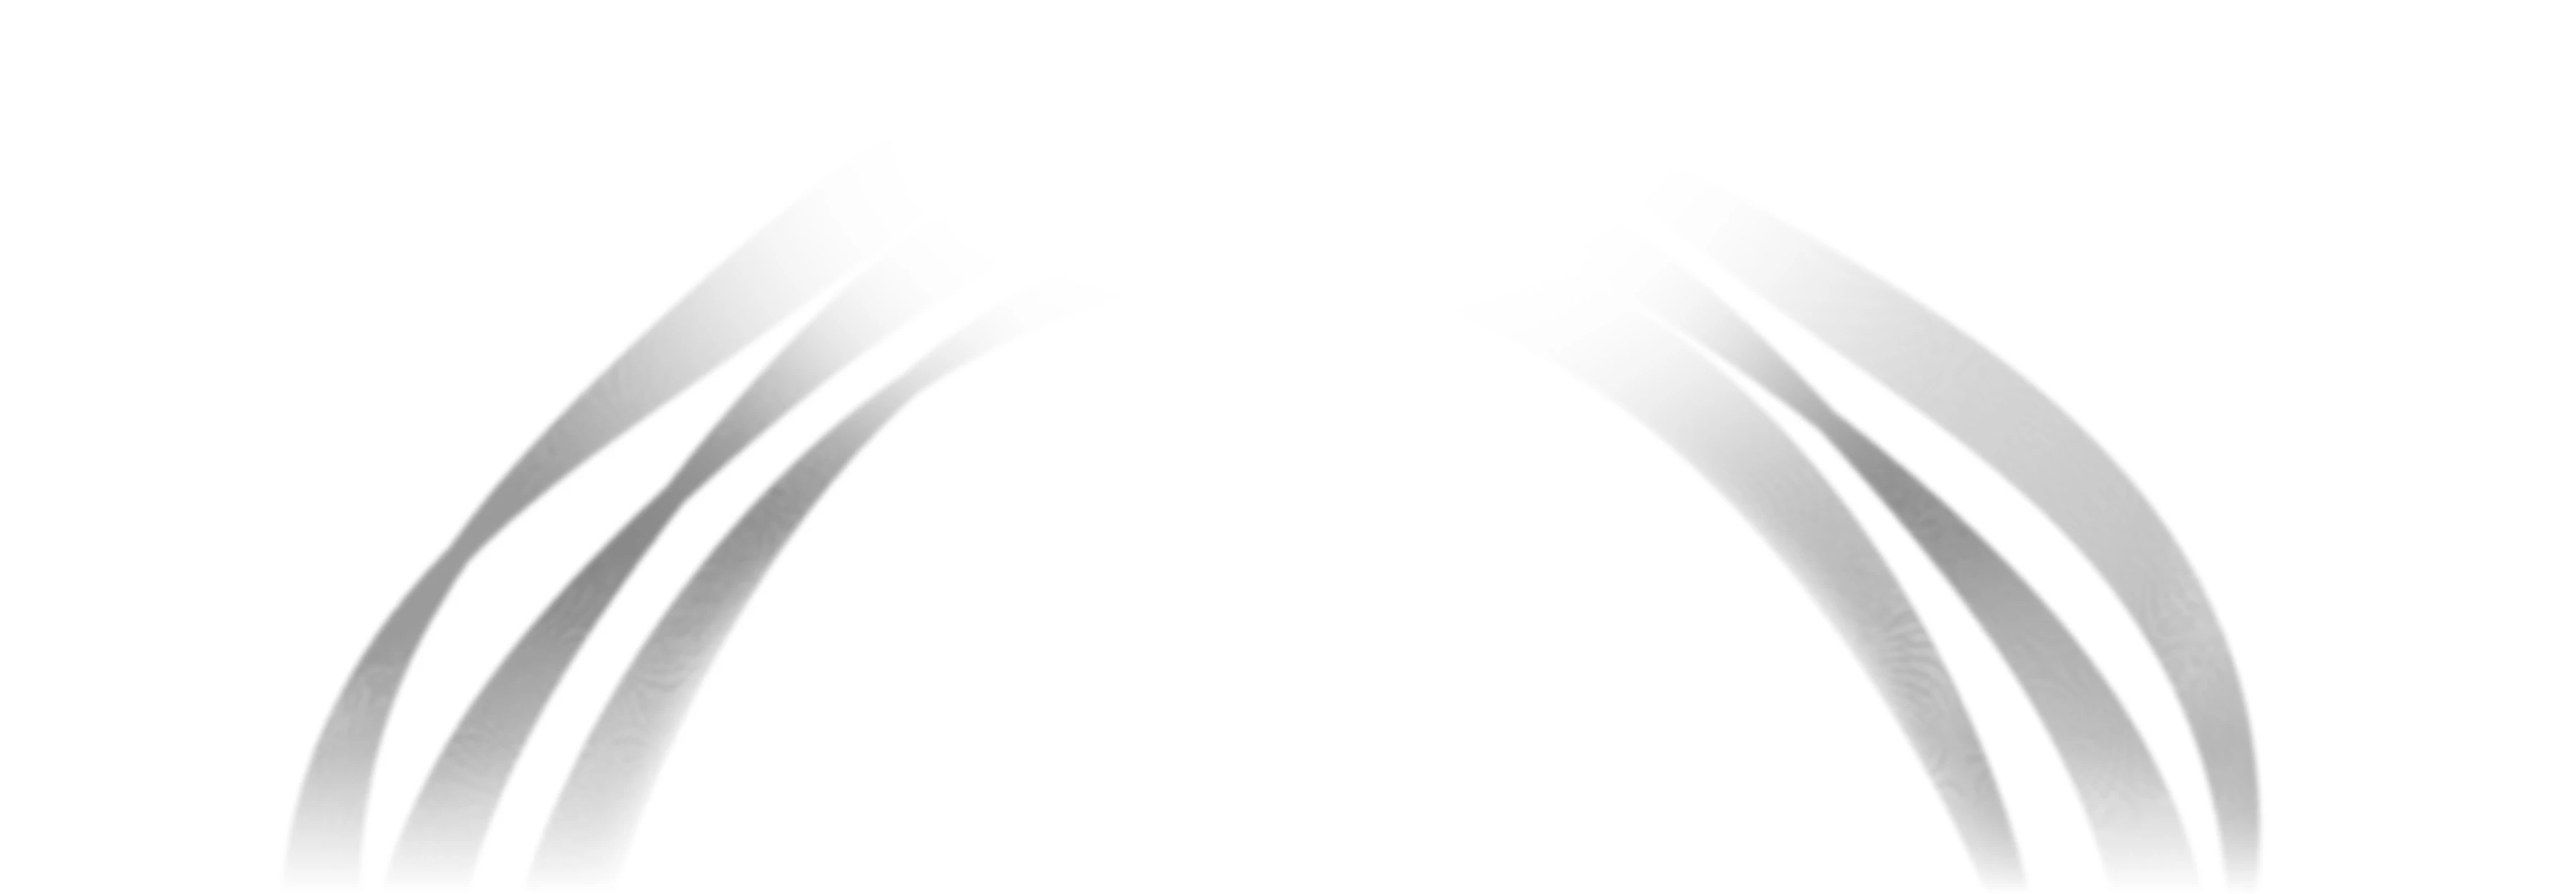
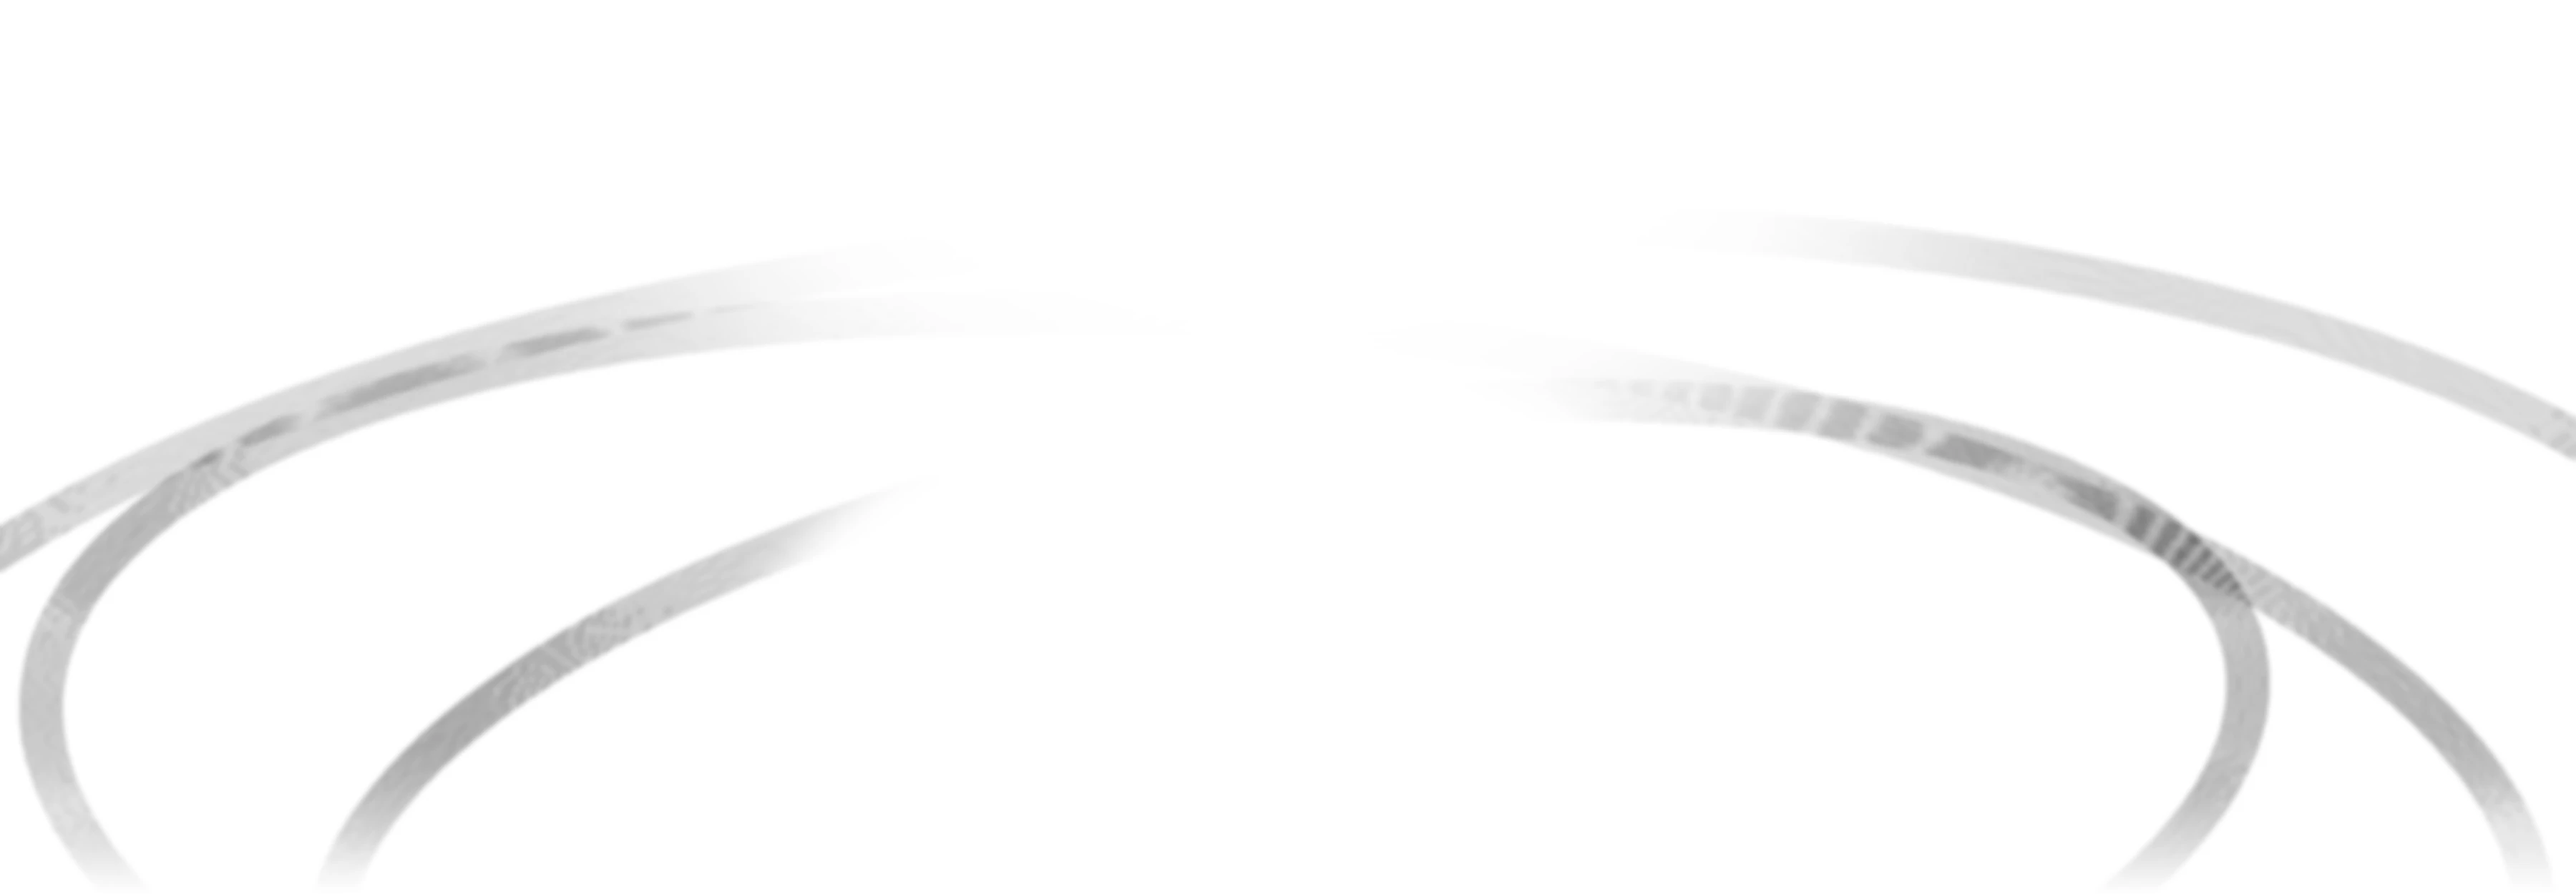
Mix dots and dashes on the partners globe, orbit it with ellipses
The globe's halftone draws a capsule that grows with the tone: small dots on
the ocean, fuller dots on dimmer land, dashes on lit land, so it reads in the
same rows as the pattern around it. That pattern becomes thin tilted orbits
passing behind the globe and out to the hero's sides.

Changed region(s): [[0.0, 0.312, 0.3733, 0.9672], [0.6533, 0.312, 0.9956, 0.9672], [0.7467, 0.2496, 1.0, 0.5304]]

diff --git a/packages/twenty-website/src/sections/partners-directory/PartnersGlobe.tsx b/packages/twenty-website/src/sections/partners-directory/PartnersGlobe.tsx
@@ -39,9 +39,10 @@ const FEATURE_MS = 2800;
 const DEGREES = Math.PI / 180;
 
 const HALFTONE = {
-  cellPx: 5,
+  cellPx: 7,
   power: -1.8,
-  dotScale: 0.82,
+  // the fullest cells stretch into a dash the cell's width, so neighbours join
+  dotScale: 1,
   landBase: 0.5,
   landLit: 0.38,
   ocean: 0.47,
@@ -100,7 +101,10 @@ const HALFTONE_VERTEX = /* glsl */ `
   void main() { vUv = uv; gl_Position = vec4(position.xy, 0.0, 1.0); }`;
 
 // The site's halftone (halftone-pass-shader.ts): one sample per cell, the
-// tone biased by the power; here the tone sets a dot's radius, not a dash.
+// tone biased by the power, drawn as a capsule that grows with the tone: a
+// small dot where the globe is faint (the ocean), a fuller dot in between, a
+// horizontal dash where it is lit (the land), so dots and dashes mix in the
+// same rows as the hero's pattern.
 const HALFTONE_FRAGMENT = /* glsl */ `
   uniform sampler2D tScene; uniform vec2 effectResolution; uniform vec2 logicalResolution;
   uniform float cell; uniform float power; uniform float dotScale; uniform vec3 dotColor;
@@ -119,10 +123,14 @@ const HALFTONE_FRAGMENT = /* glsl */ `
     float level = clamp(tone + power * 0.2357 + near * hoverLift * onSphere, 0.0, 1.0);
     float alpha = 0.0;
     if (level > 0.0001) {
-      float r = level * dotScale;
-      float d = length(fract(frag / cell) - 0.5);
+      vec2 f = fract(frag / cell) - 0.5;
       float aa = 1.0 / cell;
-      alpha = (1.0 - smoothstep(r - aa, r + aa, d)) * smoothstep(0.02, 0.08, scene.a);
+      float roundness = 0.08 + 0.3 * level;
+      // the power leaves the lit land around 0.3-0.5: that range stretches into dashes
+      float stretch = 0.5 * dotScale * smoothstep(0.22, 0.5, level);
+      float d = length(vec2(max(abs(f.x) - stretch, 0.0), f.y));
+      alpha = (1.0 - smoothstep(roundness - aa, roundness + aa, d))
+        * smoothstep(0.02, 0.08, scene.a);
     }
     gl_FragColor = vec4(dotColor * alpha, alpha);
   }`;
